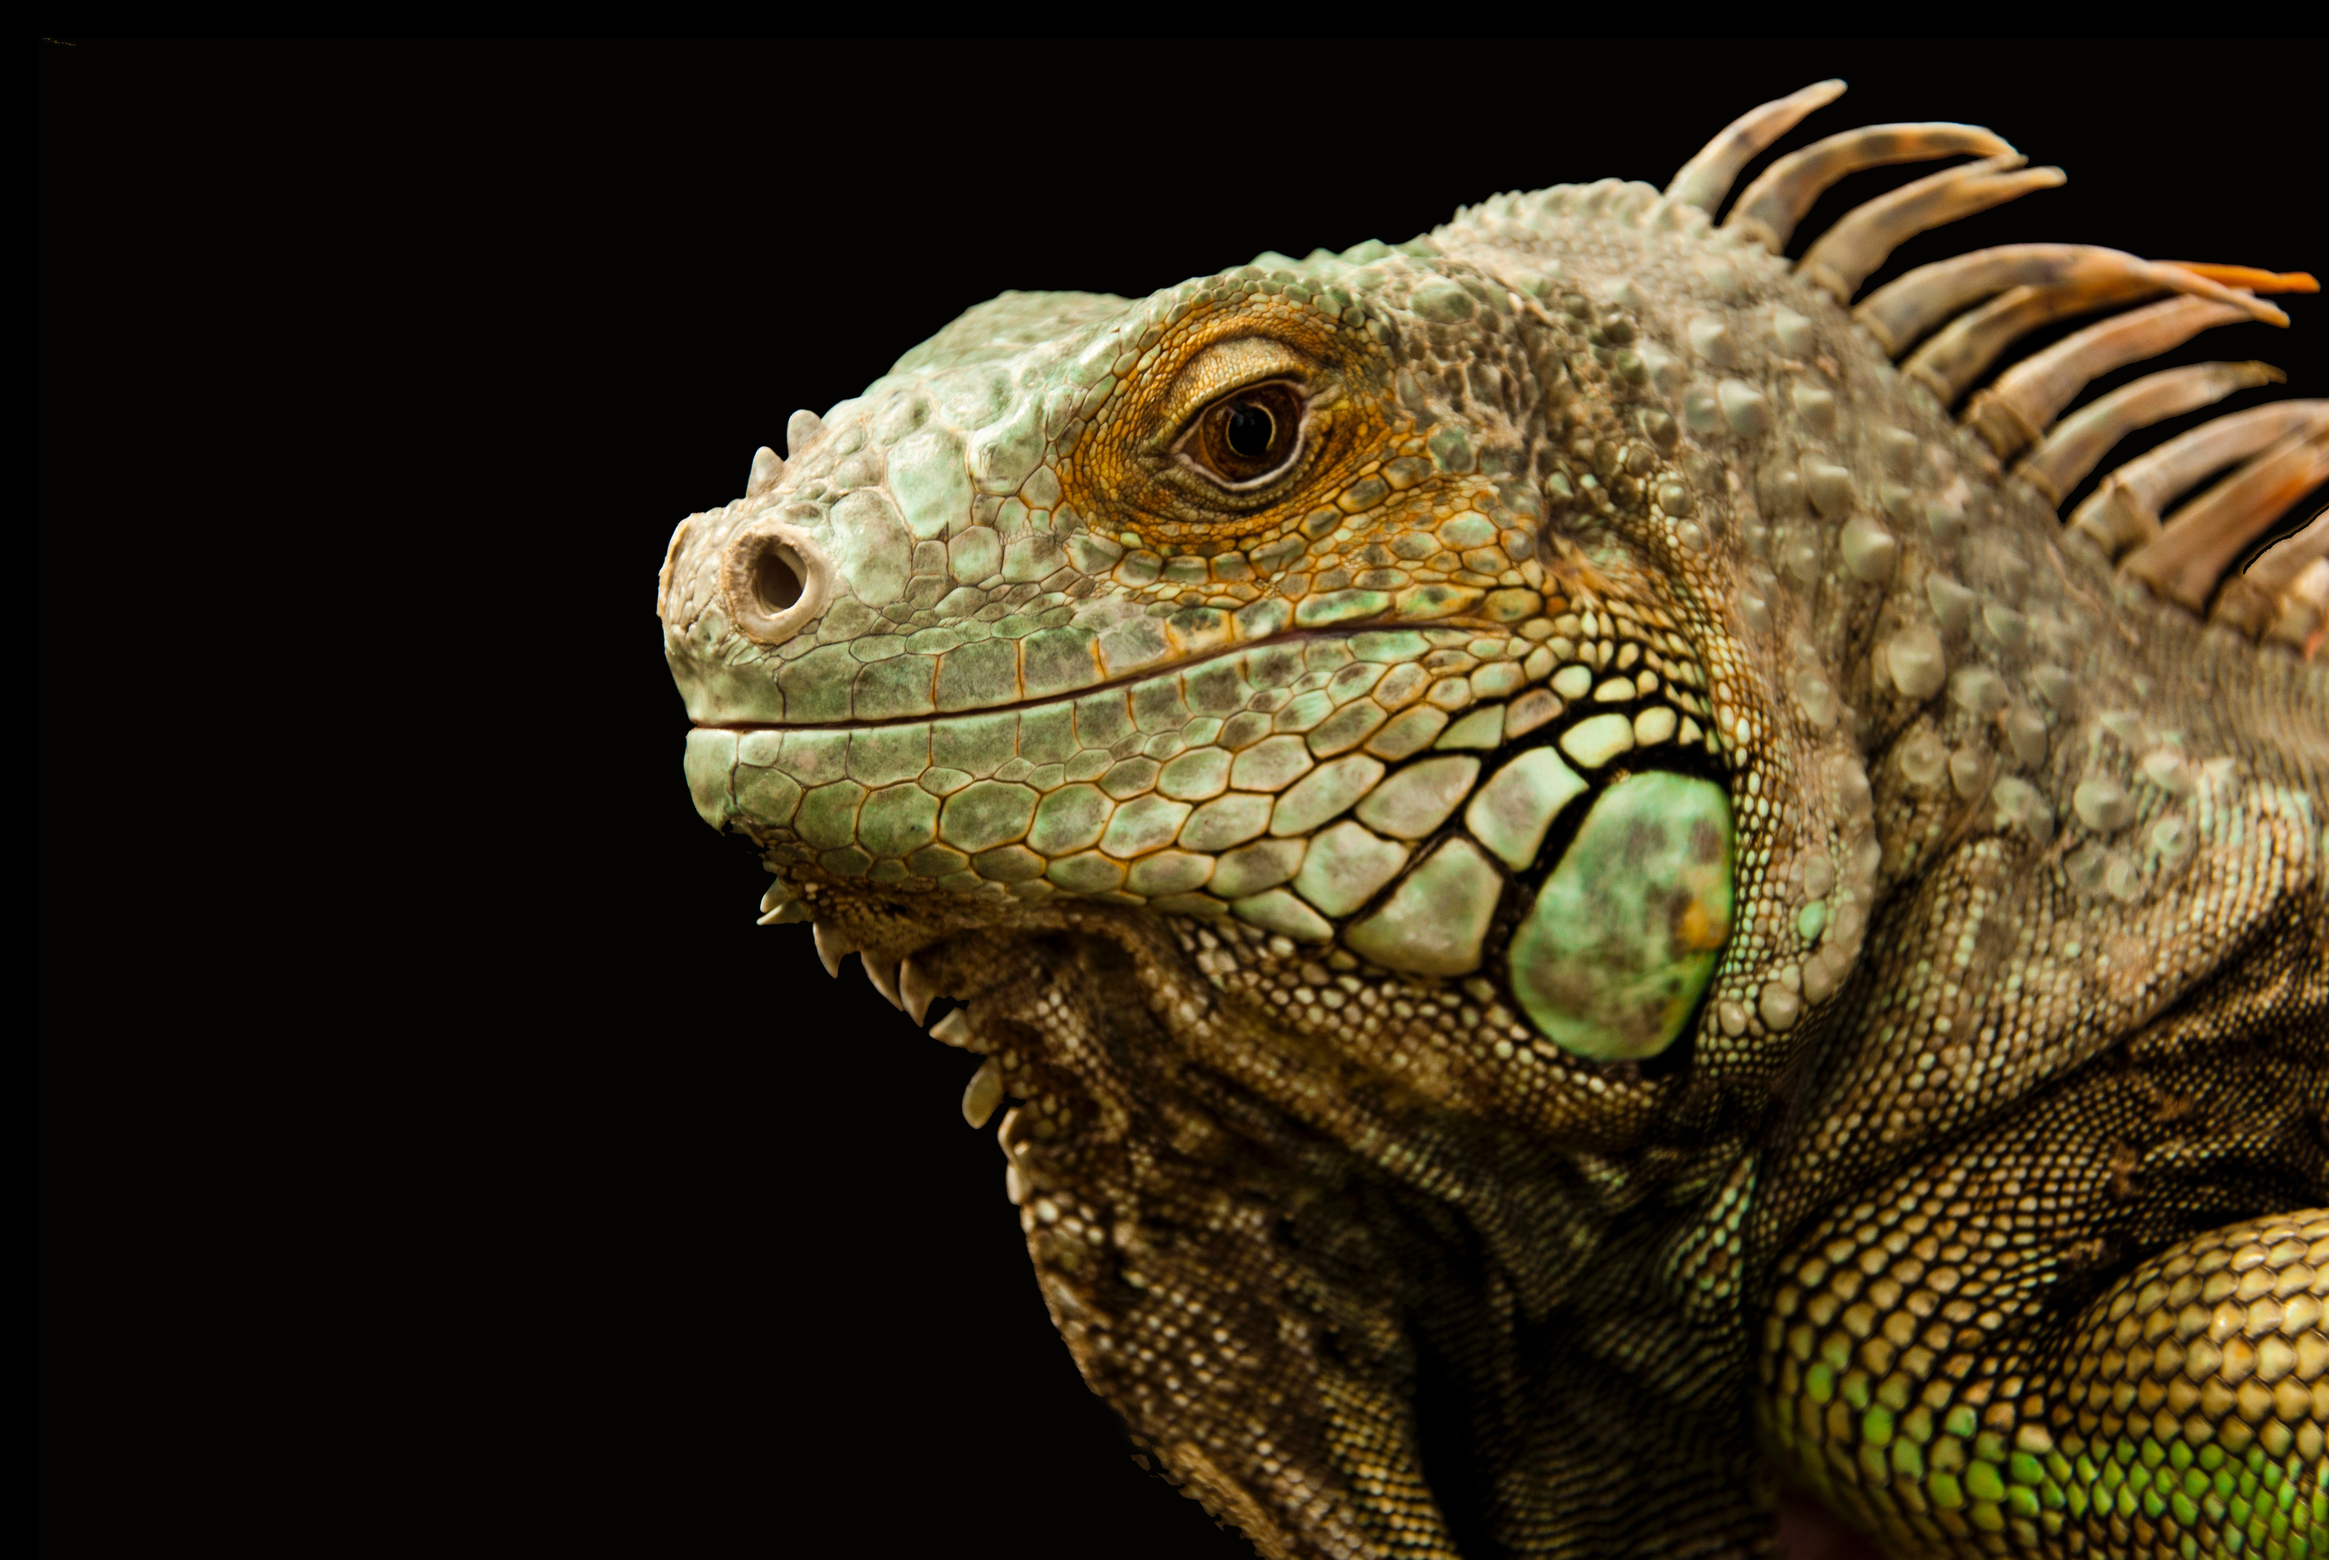
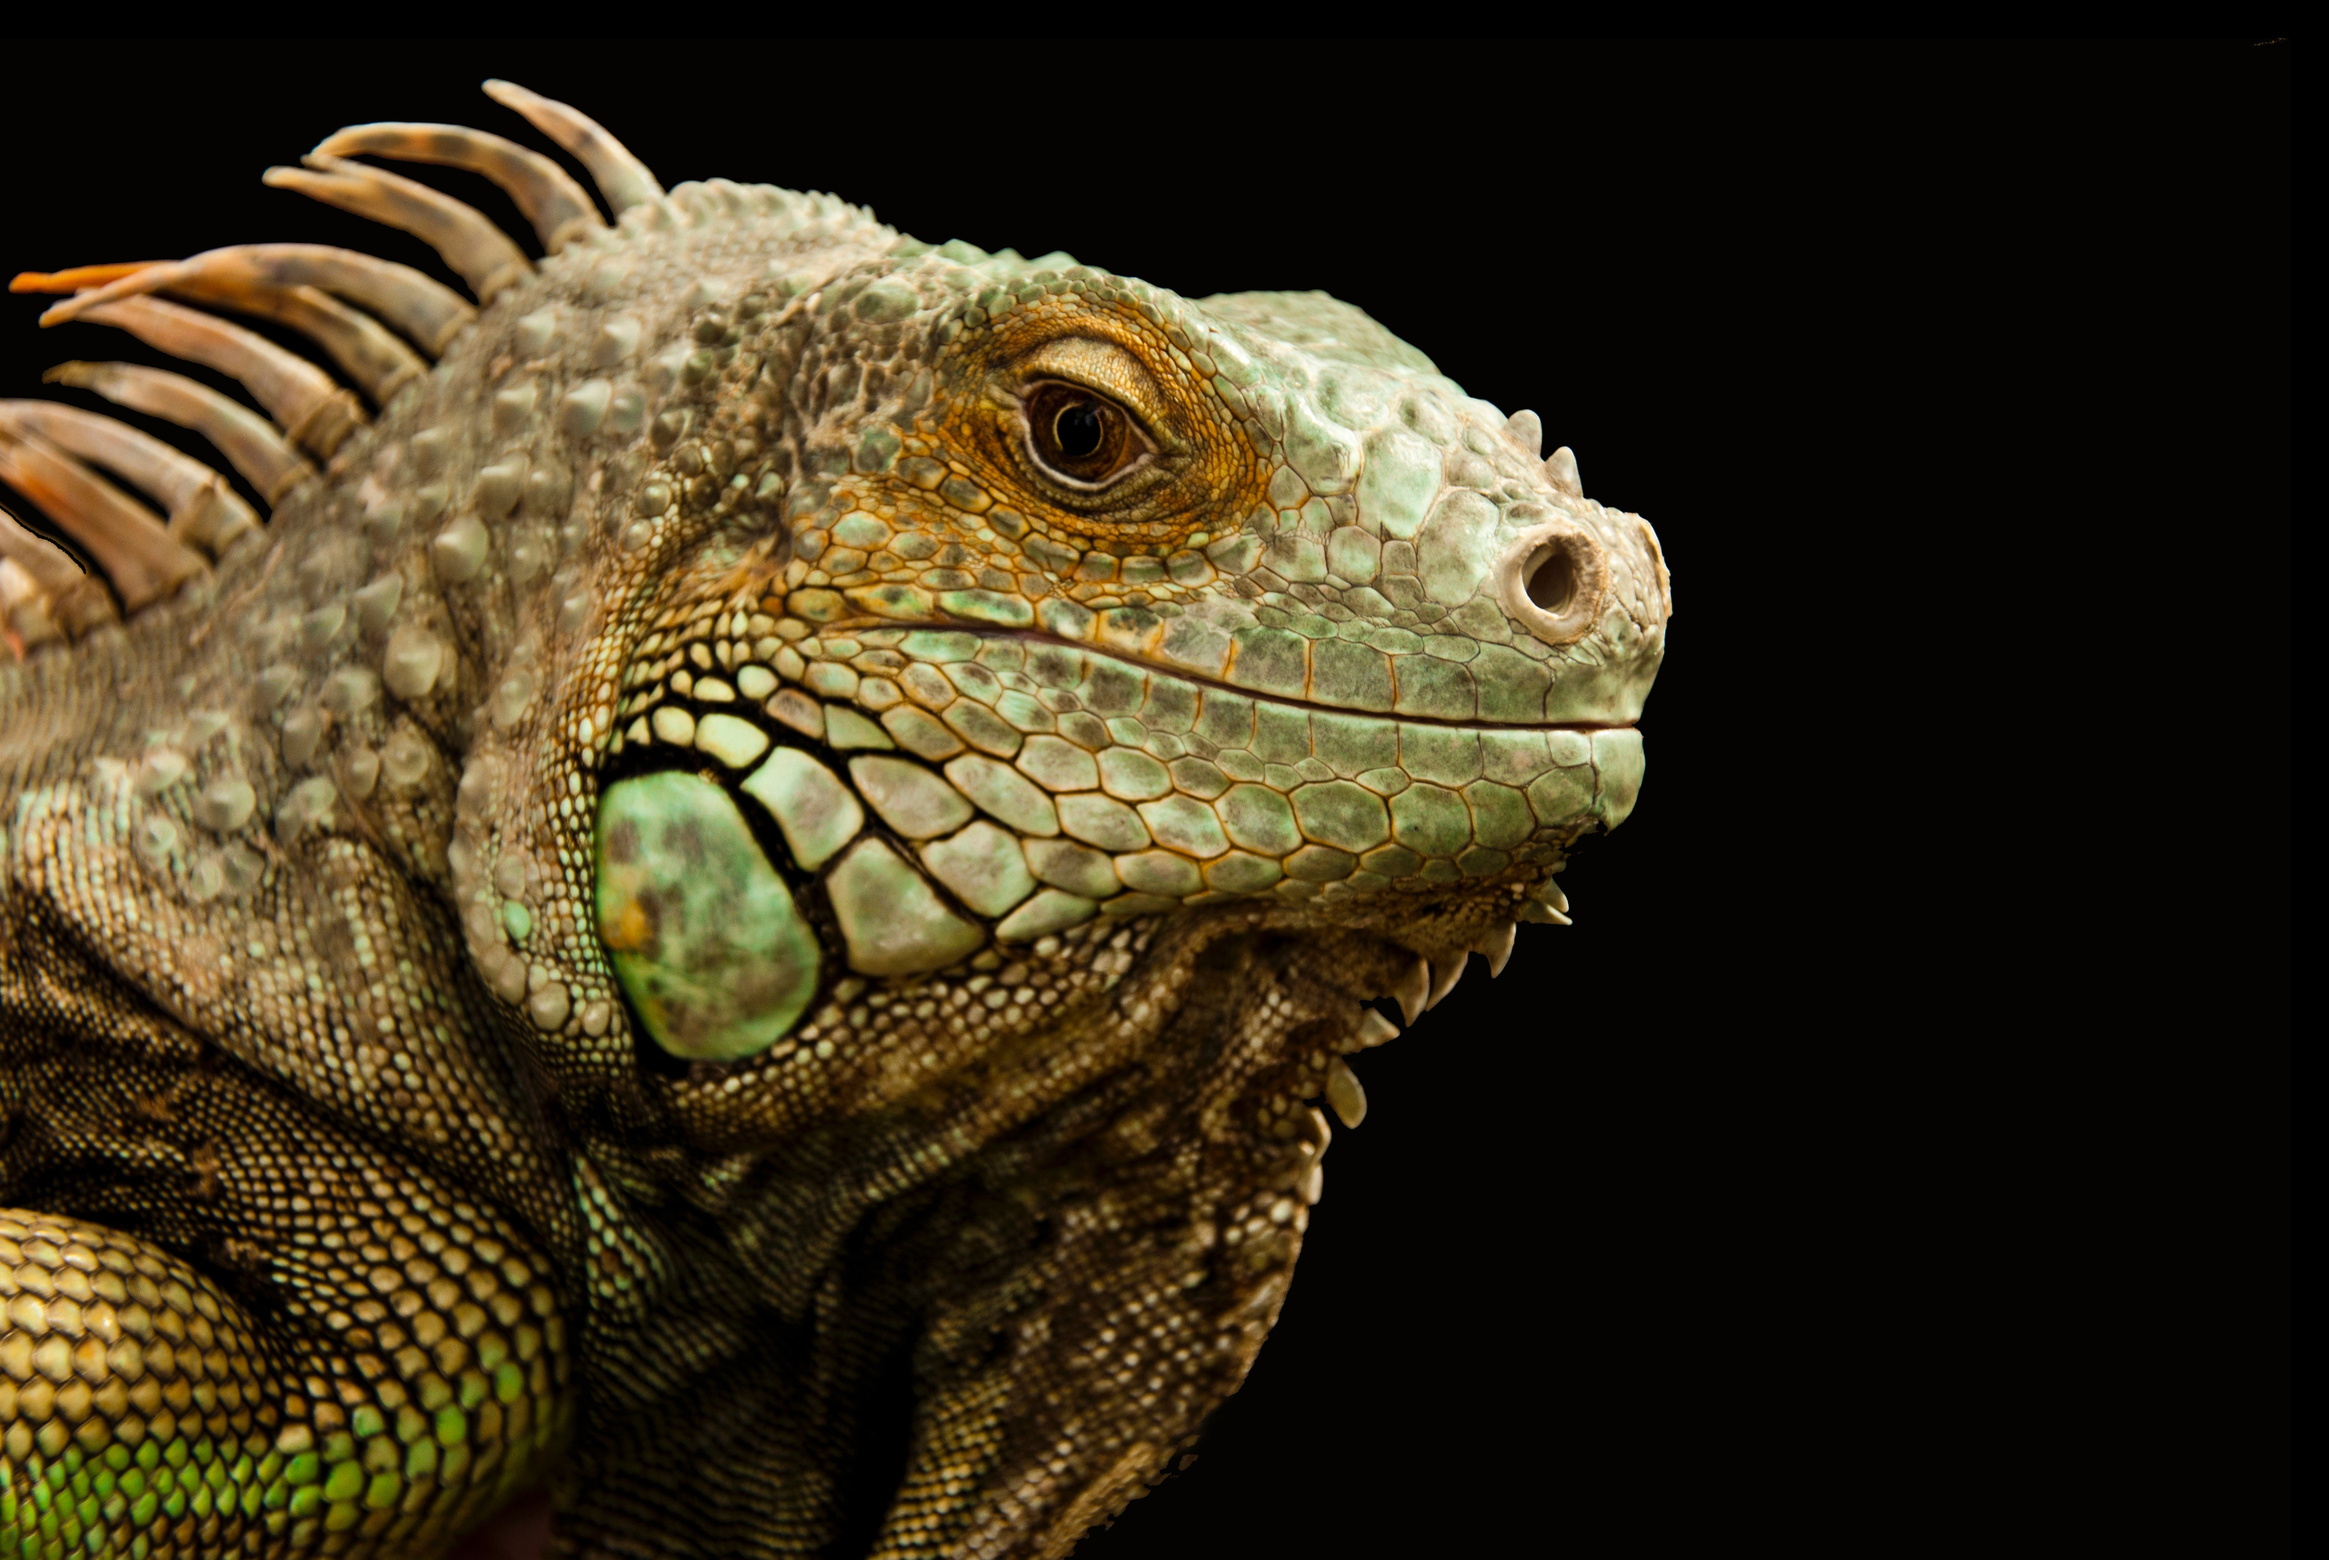
Add new colors and debug game function

diff --git a/assets/css/style.css b/assets/css/style.css
@@ -8,11 +8,11 @@
 
 /* Heading */
 header{
-   line-height: 75px;
-   padding: 30px;
-   background-color: #E4DCCF;
-   color: #363A3F;
-   height: 150px;
+   line-height: 45px;
+   padding: 15px;
+   background-color: #56423D;
+   color: #F2F7F2;
+   height: 95px;
 }
 #heading{
    font-size: 2rem;
@@ -24,36 +24,37 @@ header{
 #rules{
    font-size: 1.5rem;
    float: right;
-   border: solid 1px white;
-   background-color: white;
+   border: solid 1px #F2F7F2;
+   background-color: #F2F7F2;
    border-radius: 10px;
    padding: 0 10px;
 }
 #rules a{
    text-decoration: none;
-   color: #363A3F;
+   color: #1D1F20;
    font-weight: bold;
 }
 #rules a:hover{
-   text-decoration: underline;
+   text-decoration: underline #960803;
 }
 /* Body and scores*/
 body{
-   background-color: #363A3F;
-   color: #E4DCCF;
+   background-color: #1D1F20;
+   color: #BEA6A0;
    font-size: 30px;
    font-weight: bold;
 }
  .score-area{
+    color: #1D1F20;
     text-align: center;
     padding: 40px 100px;
     width: 350px;
-    border: solid 2px #363A3F;
+    border: solid 2px #BEA6A0;
     border-radius: 10px;
-    background-color: #3D5361;
+    background-color: #BEA6A0;
  }
 #score{
-    border-bottom: solid 2px #363A3F;
+    border-bottom: solid 2px #960803;
 }
 
  /* Style for game area */
@@ -64,6 +65,9 @@ body{
 }
 #player-computer{
    word-spacing: 450px;
+}
+#computer-image{
+   transform: scaleX(-1);
 }
 .image{
    display: inline-block;
@@ -77,7 +81,7 @@ body{
    height: 350px;
    overflow: hidden;
    border-radius: 50%;
-   box-shadow: rgba(50, 50, 93, 0.25) 0px 30px 60px -12px, rgba(0, 0, 0, 0.3) 0px 18px 36px -18px;
+   box-shadow: rgba(0, 0, 0, 0.25) 0px 54px 55px, rgba(0, 0, 0, 0.12) 0px -12px 30px, rgba(0, 0, 0, 0.12) 0px 4px 6px, rgba(0, 0, 0, 0.17) 0px 12px 13px, rgba(0, 0, 0, 0.09) 0px -3px 5px;
 }
 
 .choices{
@@ -88,20 +92,21 @@ body{
 }
 .btn{
    display: inline-block;
-   border: 3px solid white;
+   border: 3px solid #BEA6A0;
    border-radius: 50%;
    padding: 20px;
    cursor: pointer;
+   color:#960803;
 }
 .btn:hover{
-   background-color: #E4DCCF;
-   color: #363A3F;
+   background-color: #960803;
+   color: #1D1F20;
 }
 #label{
    text-align: center;
    word-spacing: 115px;
    font-size: 20px;
-   color:white;
+   color:#BEA6A0;
 }
 .text{
    padding-left: 30px;
@@ -112,7 +117,7 @@ body{
 .rule-text{
    text-align: center;
    font-size: 2rem;
-   color:white;
+   color:#BEA6A0;
    margin-top: 50px;
    line-height: 80px;
    

diff --git a/assets/js/script.js b/assets/js/script.js
@@ -50,64 +50,34 @@ function game(playerChoice) {
   if (playerChoice === computerChoice) {
     draw();
   } else if (computerChoice === "rock") {
-    if (playerChoice === "paper") {
-      win();
-    } else {
-      lose();
-    }
-  } else if (computerChoice === "rock") {
-    if (playerChoice === "spock") {
+    if (playerChoice === "paper" || playerChoice === "spock") {
       win();
     } else {
       lose();
     }
   } else if (computerChoice === "paper") {
-    if (playerChoice === "lizard") {
-      win();
-    } else {
-      lose();
-    }
-  } else if (computerChoice === "paper") {
-    if (playerChoice === "scissors") {
+    if (playerChoice === "lizard" || playerChoice === "scissors") {
       win();
     } else {
       lose();
     }
   } else if (computerChoice === "scissors") {
-    if (playerChoice === "spock") {
-      win();
-    } else {
-      lose();
-    }
-  } else if (computerChoice === "scissors") {
-    if (playerChoice === "rock") {
+    if (playerChoice === "spock" || playerChoice === "rock") {
       win();
     } else {
       lose();
     }
   } else if (computerChoice === "lizard") {
-    if (playerChoice === "scissors") {
-      win();
-    } else {
-      lose();
-    }
-  } else if (computerChoice === "lizard") {
-    if (playerChoice === "rock") {
+    if (playerChoice === "scissors" || playerChoice === "rock") {
       win();
     } else {
       lose();
     }
   } else if (computerChoice === "spock") {
-    if (playerChoice === "paper") {
+    if (playerChoice === "paper" || playerChoice === "lizard") {
       win();
     } else {
       lose();
-    }
-  } else if (computerChoice === "spock") {
-    if (playerChoice === "lizard") {
-      win();
-    } else {
-        lose();
     }
   }
   playerImage.src = `./assets/images/${playerChoice}.jpg`;

diff --git a/index.html b/index.html
@@ -16,7 +16,7 @@
 
     <header>
         <div id="heading"><h1 >Rock Paper Scissors Lizard Spock Game</h1></div>
-        <div id="rules"><a href="./rules.html">Rules</a></div>
+        <div id="rules"><a href="./rules.html" target="_blank">Rules</a></div>
     </header>
     
     <div class="score-area">
